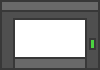
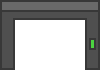
fixed anoying floor bug
also made doors have a red light when closed, not final

Changed region(s): [[0.15, 0.8, 0.87, 1.0]]

diff --git a/SifiGame/SifiGame/bin/Debug/AppX/js/game.js b/SifiGame/SifiGame/bin/Debug/AppX/js/game.js
@@ -74,15 +74,15 @@ function game() {
         floorcollection.add(-100, -100, 1000, 1000);
         floorcollection.add(300, -900, 300, 900);
 
-        floorcollection.add(590, -600, 700, 50);
-        floorcollection.add(590, -400, 700, 50);
+        floorcollection.add(570, -600, 700, 50);
+        floorcollection.add(570, -400, 700, 50);
         floorcollection.add(300, 800, 300, 700);
         floorcollection.add(300, 1600, 300, 200);
         floorcollection.add(300, 1450, 100, 200);
         floorcollection.add(500, 1450, 100, 200);
 
         floorcollection.add(800, 400, 700, 700);
-        floorcollection.add(300, 1700, 700, 100);
+        floorcollection.add(300, 1700, 780, 100);
 
 
         platformcollection.add(929, 400, 40, 20, PLATFORMTYPE_PILLAR1);
@@ -108,8 +108,8 @@ function game() {
         platformcollection.add(1429, 1050, 40, 20, PLATFORMTYPE_PILLAR1);
 
         floorcollection.add(1200, 1090, 200, 310);
-        floorcollection.add(1000, 1390, 400, 400);
-        floorcollection.add(990, 1700, 410, 100);
+        floorcollection.add(1000, 1390, 400, 410);
+        //floorcollection.add(990, 1700, 410, 100);
 
         platformcollection.add(300, -300, 40, 20, PLATFORMTYPE_PILLAR1);
         platformcollection.add(340, -300, 40, 20, PLATFORMTYPE_PILLAR1);

diff --git a/SifiGame/SifiGame/js/game.js b/SifiGame/SifiGame/js/game.js
@@ -74,15 +74,15 @@ function game() {
         floorcollection.add(-100, -100, 1000, 1000);
         floorcollection.add(300, -900, 300, 900);
 
-        floorcollection.add(590, -600, 700, 50);
-        floorcollection.add(590, -400, 700, 50);
+        floorcollection.add(570, -600, 700, 50);
+        floorcollection.add(570, -400, 700, 50);
         floorcollection.add(300, 800, 300, 700);
         floorcollection.add(300, 1600, 300, 200);
         floorcollection.add(300, 1450, 100, 200);
         floorcollection.add(500, 1450, 100, 200);
 
         floorcollection.add(800, 400, 700, 700);
-        floorcollection.add(300, 1700, 700, 100);
+        floorcollection.add(300, 1700, 780, 100);
 
 
         platformcollection.add(929, 400, 40, 20, PLATFORMTYPE_PILLAR1);
@@ -108,8 +108,7 @@ function game() {
         platformcollection.add(1429, 1050, 40, 20, PLATFORMTYPE_PILLAR1);
 
         floorcollection.add(1200, 1090, 200, 310);
-        floorcollection.add(1000, 1390, 400, 400);
-        floorcollection.add(990, 1700, 410, 100);
+        floorcollection.add(1000, 1390, 400, 410);
 
         platformcollection.add(300, -300, 40, 20, PLATFORMTYPE_PILLAR1);
         platformcollection.add(340, -300, 40, 20, PLATFORMTYPE_PILLAR1);

diff --git a/SifiGame/SifiGame/bin/Debug/AppX/js/player.js b/SifiGame/SifiGame/bin/Debug/AppX/js/player.js
@@ -142,6 +142,8 @@ function player(x, y, index/*so i can set where the player starts when i instant
                 for (platformcounter = 0; platformcounter < platformcollection.count() ; platformcounter++) {
                     if (collisiondetection1.testcollision(this, platformcollection.array[platformcounter]) && platformcollection.array[platformcounter].removable && this.money >= platformcollection.array[platformcounter].price) {
                         game2.submoney(this.index, platformcollection.array[platformcounter].price)
+                        platformcollection.array[platformcounter + 2].locked = 0;
+
                         platformcollection.delete(platformcounter);
                     }
                 }

diff --git a/SifiGame/SifiGame/js/player.js b/SifiGame/SifiGame/js/player.js
@@ -142,6 +142,8 @@ function player(x, y, index/*so i can set where the player starts when i instant
                 for (platformcounter = 0; platformcounter < platformcollection.count() ; platformcounter++) {
                     if (collisiondetection1.testcollision(this, platformcollection.array[platformcounter]) && platformcollection.array[platformcounter].removable && this.money >= platformcollection.array[platformcounter].price) {
                         game2.submoney(this.index, platformcollection.array[platformcounter].price)
+                        platformcollection.array[platformcounter + 2].locked = 0;
+
                         platformcollection.delete(platformcounter);
                     }
                 }

diff --git a/SifiGame/SifiGame/bin/Debug/AppX/js/Platform.js b/SifiGame/SifiGame/bin/Debug/AppX/js/Platform.js
@@ -15,6 +15,7 @@ function platform(index, x, y, width, height, type, ax, ay, bx, by, image) {
     this.index = index;
     this.breakable = false;
     this.removable = false;
+    this.locked = 1;
     this.image = image;
     //a function called in the main loop, it draws the platform
     this.draw = function () {
@@ -129,6 +130,10 @@ function platform(index, x, y, width, height, type, ax, ay, bx, by, image) {
                 this.width = 15;
                 this.height = 13;
                 ctx.drawImage(doorway1, this.x, this.y - 57)
+                if (this.locked == 1)
+                {
+                    ctx.drawImage(doorway2, this.x, this.y - 57)
+                }
                 break;
 
 

diff --git a/SifiGame/SifiGame/js/Platform.js b/SifiGame/SifiGame/js/Platform.js
@@ -15,6 +15,7 @@ function platform(index, x, y, width, height, type, ax, ay, bx, by, image) {
     this.index = index;
     this.breakable = false;
     this.removable = false;
+    this.locked = 1;
     this.image = image;
     //a function called in the main loop, it draws the platform
     this.draw = function () {
@@ -129,6 +130,10 @@ function platform(index, x, y, width, height, type, ax, ay, bx, by, image) {
                 this.width = 15;
                 this.height = 13;
                 ctx.drawImage(doorway1, this.x, this.y - 57)
+                if (this.locked == 1)
+                {
+                    ctx.drawImage(doorway2, this.x, this.y - 57)
+                }
                 break;
 
 

diff --git a/SifiGame/SifiGame/bin/Debug/AppX/js/Floor.js b/SifiGame/SifiGame/bin/Debug/AppX/js/Floor.js
@@ -36,5 +36,6 @@
         //ctx.fillRect(this.x, this.y+ this.height, this.width, 20);
 
         ctx.drawImage(floorBase, 0, 0, this.width, 20, this.x, this.y + this.height, this.width, 20);
+        ctx.fillRect(this.x, this.y + this.height + (Math.random() * 6) + 50, this.width, 5);
     }
 }

diff --git a/SifiGame/SifiGame/js/Floor.js b/SifiGame/SifiGame/js/Floor.js
@@ -36,5 +36,6 @@
         //ctx.fillRect(this.x, this.y+ this.height, this.width, 20);
 
         ctx.drawImage(floorBase, 0, 0, this.width, 20, this.x, this.y + this.height, this.width, 20);
+        ctx.fillRect(this.x, this.y + this.height + (Math.random() * 6) + 50, this.width, 5);
     }
 }

diff --git a/SifiGame/SifiGame/bin/Debug/AppX/js/resources.js b/SifiGame/SifiGame/bin/Debug/AppX/js/resources.js
@@ -116,3 +116,5 @@ var door1 = new Image();
 door1.src = 'Images/NewFolder/door1.png'
 var ammo1 = new Image();
 ammo1.src = 'Images/player1/ammo1.png'
+var doorway2 = new Image();
+doorway2.src = 'Images/NewFolder/doorway2.png'

diff --git a/SifiGame/SifiGame/js/resources.js b/SifiGame/SifiGame/js/resources.js
@@ -116,3 +116,5 @@ var door1 = new Image();
 door1.src = 'Images/NewFolder/door1.png'
 var ammo1 = new Image();
 ammo1.src = 'Images/player1/ammo1.png'
+var doorway2 = new Image();
+doorway2.src = 'Images/NewFolder/doorway2.png'
